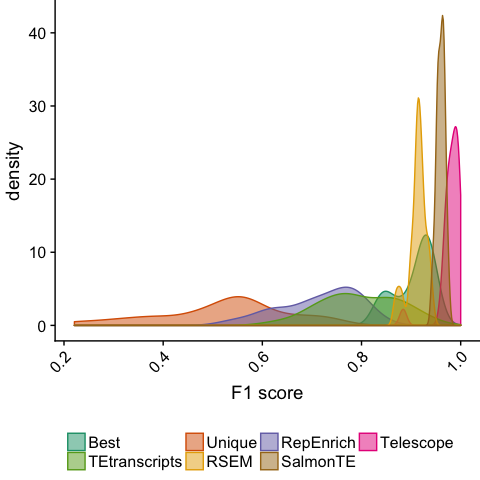
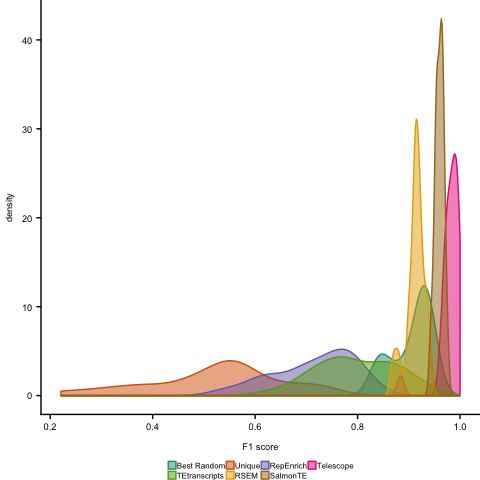
New figures

Changed region(s): [[0.0, 0.0, 1.0, 1.0]]

diff --git a/Images.md b/Images.md
@@ -33,19 +33,16 @@ data$cathegorie<-factor(data$cathegorie,levels=c("Not HERV/\nNot Mapped","Other 
 
 colorp<-brewer.pal(n = 7, name = "Dark2")
 
-tem<- theme( text = element_text(size=10),
-              legend.text=element_text(size=7),
+tem<- theme(  text = element_text(size=10),
               panel.grid.major = element_line(colour = "gray80"),
               panel.border = element_blank(),
-              axis.text.x = element_text(angle=45,hjust = 1,lineheight = 0.7),
-              #strip.text.x = element_text(angle = 0),
-              #axis.ticks = element_blank(),
-              #axis.title.x=element_blank(),
-              #axis.text.x=element_blank(),
+              axis.text.x = element_text(angle=45,hjust = 1,lineheight = 0.7,size = 6),
+              axis.text.y = element_text(size = 6, margin=margin(l=0)),
+              axis.title.y = element_text(size = 6, margin=margin(l=0,r=0)),
               panel.grid.minor.x=element_blank(),
               panel.grid.major.x=element_blank(),
-              strip.text.x = element_text(size=7),
               strip.text.y = element_text(size=7),
+              strip.text.x = element_text(size=7),
               plot.margin=margin(l=0,unit="cm", b=0,r=0),
               strip.background = element_rect(colour="white",fill="gray80"),
               legend.position="bottom")
@@ -53,7 +50,7 @@ tem<- theme( text = element_text(size=10),
 plot_box_sim<-function(data2plot,x2plot,y2plot,title,color2plot,tem2plot=tem,limit){
   res<-ggplot(data=data2plot,mapping= aes_string(y=y2plot,x=x2plot))+
     geom_boxplot(outlier.shape = NA, fill=color2plot, alpha=0.5)+ggtitle(title)+
-    geom_jitter(shape=16, position=position_jitter(0.25), colour= "black", alpha=0.75)+
+    geom_jitter(shape=16, position=position_jitter(0.25), colour= "black", alpha=0.5)+
     geom_segment(aes(x=2,y=0,xend=12.5,yend=315),colour=rgb(1,0,0),linetype="dashed",size=1.1)+
     geom_segment(aes(x=0.5,y=limit,xend=1.5,yend=limit),colour=rgb(1,0,0),linetype="dashed",size=1.1)+
     ylab("Read Count")+ xlab("")+theme_bw()+tem2plot
@@ -144,15 +141,21 @@ forplt2<-data.frame(Presicion=presicion$Presicion,
                     Counting=factor(presicion$Counting))
 
 pres<-ggplot(data=forplt,aes(x=Recall,y=Presicion, colour=Counting))+
-  geom_point(alpha=0.75)+
+  geom_point(alpha=0.5, size=1.5)+
   scale_color_manual(values=colorp)+
-  geom_point(data=forplt2,aes(x=Recall,y=Presicion),shape=8, size=8)+
-  guides(col=guide_legend(nrow=2, byrow = T))+
-  theme(legend.position = "bottom",
+  geom_point(data=forplt2,aes(x=Recall,y=Presicion),shape=8, size=4,show.legend=FALSE)+
+  guides(colour=guide_legend(nrow=2, byrow = T ,override.aes = list(size=2, shape=8)))+
+  theme(text = element_text(size=7),
+        legend.position = "bottom",
         legend.title = element_blank(),
-        plot.margin=margin(l=0,unit="cm", b=0,r=0),
+        legend.spacing.y = unit(0.1, 'mm'),
+        legend.box.margin=margin(t=-10),
+        axis.text.x = element_text(size = 7),
+        axis.text.y = element_text(size = 7),
+        plot.margin=margin(l=0,unit="cm", b=0,r=0, t=0),
+        legend.key.height = unit(0, units = "mm"),
+        legend.key.width = unit(0, units = "mm"),
         strip.text.x = element_blank(),
-        legend.spacing.x = unit(0.005,"native"),
         legend.margin = margin(t=0,r=0,b=0,l=0))
 pres
 ```
@@ -160,20 +163,25 @@ pres
 ![](Images_files/figure-markdown_github/fig3-1.png)
 
 ``` r
-levels(F1_score$Counting)<-c("Best", "Unique", "RepEnrich", "Telescope", "TEtranscripts", "RSEM","SalmonTE")
+levels(F1_score$Counting)<-c("Best Random", "Unique", "RepEnrich", "Telescope", "TEtranscripts", "RSEM","SalmonTE")
 f1<-ggplot(F1_score, aes(x=F1, color=Counting, fill=Counting))+
   geom_density()+
   scale_color_manual(values=colorp)+
   scale_fill_manual(values=alpha(colorp,0.5))+
   xlab("F1 score")+
-  theme(legend.position = "bottom",
+  guides(colour=guide_legend(nrow=2, byrow = T, keywidth = 0.5, keyheight = 0.5))+
+  theme(text = element_text(size=7),
+        legend.position = "bottom",
+        legend.justific ="center",
+        legend.box.margin=margin(t=-10),
         legend.title = element_blank(),
-        #legend=guide_legend(nrow = 2),
         strip.text.x = element_blank(),
-        legend.spacing.x = unit(0.005,"npc"),
-        plot.margin=margin(l=0,unit="cm", b=0,r=0),
-        axis.text.x = element_text(angle=45,hjust = 1))+
-  guides(col=guide_legend(nrow=2, byrow = T, keywidth = 1), size=2)
+        axis.text.x = element_text(size = 7),
+        axis.text.y = element_text(size = 7),
+        legend.spacing.y = unit(0.1, 'mm'),
+        plot.margin=margin(l=0,unit="cm", b=0,r=0,t=0),
+        legend.margin = margin(t=0,r=0,b=0,l=0))
+  
 f1
 ```
 
@@ -183,12 +191,13 @@ The most similar results are Telescope and SalmonTE. Telescope present a higher 
 
 ![](Images_files/figure-markdown_github/f1com-1.png)
 
-Each point represent a simulation and since the same simulation fastq file was used as input for the counting method the samples are paired, represented with a line. Wilcoxon paired test was performd and p-values are shown over the line.
+Each point represent a simulation and since the same simulation fastq file was used as input for the counting method the samples are paired, represented with a line. Wilcoxon paired test was performed and p-values are shown over the line.
 
 The paper plot:
 
 ``` r
-plot_grid(puniq,pbest,pRepEn,pTEt,pREM,pSalm,pTele,pres,f1, labels="AUTO", nrow = 3)
+paper<-plot_grid(puniq,pbest,pRepEn,pTEt,pREM,pSalm,pTele,pres,f1, labels="AUTO", nrow = 3 )
+paper
 ```
 
 ![](Images_files/figure-markdown_github/paper-1.png)
